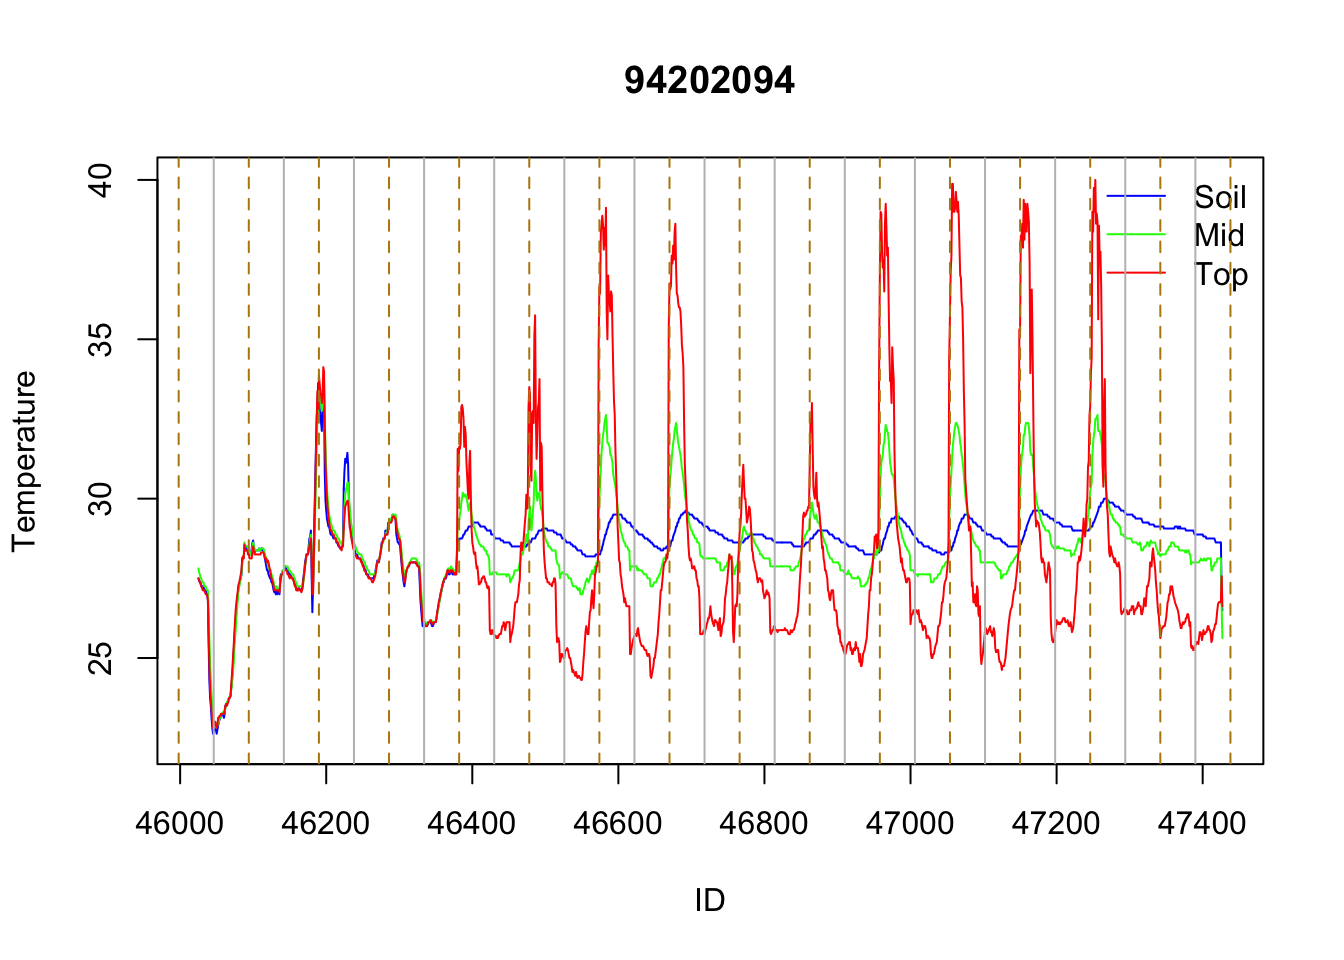
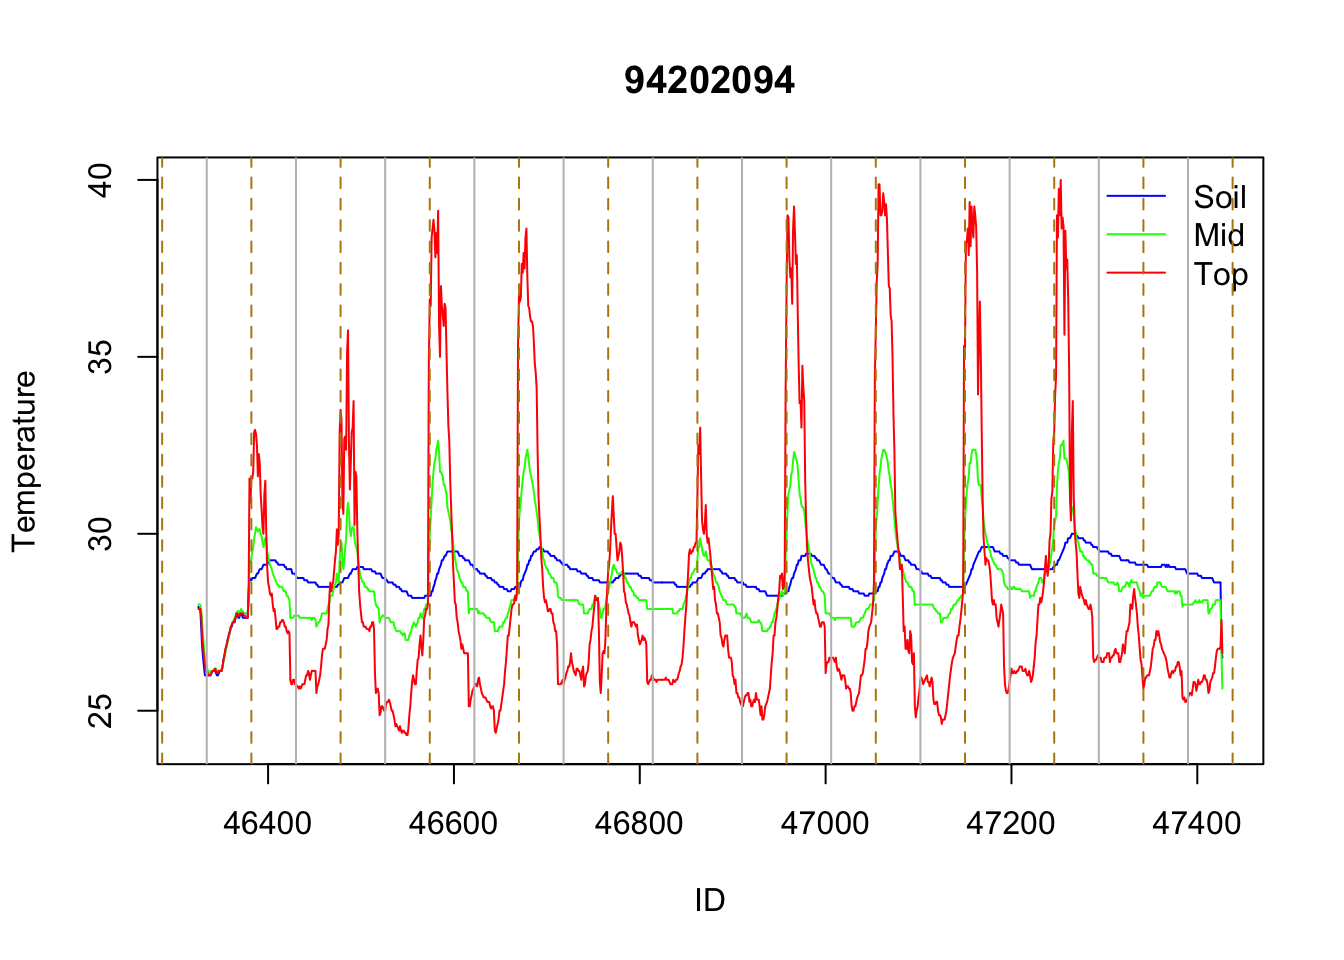
Meeting 20200618

diff --git a/docs/index.html b/docs/index.html
@@ -402,13 +402,13 @@ $(document).ready(function () {
 <h3>94202099 - Bushes</h3>
 <p><img src="index_files/figure-html/unnamed-chunk-2-8.png" width="672" /></p>
 </div>
-<div id="air" class="section level3">
-<h3>94202091 - Air</h3>
+<div id="air-not-buried" class="section level3">
+<h3>94202091 - Air-not buried</h3>
 <p><img src="index_files/figure-html/unnamed-chunk-2-9.png" width="672" /></p>
 <!-- ## Measurements between dataloggers {.tabset} -->
 <!-- ### Soil temperature -->
 <!-- ```{r,echo=FALSE} -->
-<!-- plot(datum[condi,c("ID","Temp1")],col=NA,xlim=c(46025,47700),ylab="Soil temperature") -->
+<!-- plot(datum[condi,c("ID","Temp1")],col=NA,xlim=c(46325,47500),ylab="Soil temperature") -->
 <!-- for(i in 1:length(unique(datum$Sensor))) with(datum[condi & datum$Sensor==unique(datum$Sensor)[i],],lines(ID,Temp1,type="l",col=rainbow(n=9)[i])) -->
 <!-- abline(v=62+0:1000*96,col="grey",lty=1) -->
 <!-- abline(v=14+0:1000*96,col="darkgoldenrod",lty=2) -->
@@ -416,7 +416,7 @@ $(document).ready(function () {
 <!-- ``` -->
 <!-- ### Middle temperature  -->
 <!-- ```{r,echo=FALSE} -->
-<!-- plot(datum[condi,c("ID","Temp2")],col=NA,xlim=c(46025,47700),ylab="Mid temperature") -->
+<!-- plot(datum[condi,c("ID","Temp2")],col=NA,xlim=c(46325,47500),ylab="Mid temperature") -->
 <!-- for(i in 1:length(unique(datum$Sensor))) with(datum[condi & datum$Sensor==unique(datum$Sensor)[i],],lines(ID,Temp2,type="l",col=rainbow(n=9)[i])) -->
 <!-- abline(v=62+0:1000*96,col="grey",lty=1) -->
 <!-- abline(v=14+0:1000*96,col="darkgoldenrod",lty=2) -->
@@ -424,7 +424,7 @@ $(document).ready(function () {
 <!-- ``` -->
 <!-- ### Top temperature -->
 <!-- ```{r,echo=FALSE} -->
-<!-- plot(datum[condi,c("ID","Temp3")],col=NA,xlim=c(46025,47700),ylab="Top temperature") -->
+<!-- plot(datum[condi,c("ID","Temp3")],col=NA,xlim=c(46325,47500),ylab="Top temperature") -->
 <!-- for(i in 1:length(unique(datum$Sensor))) with(datum[condi & datum$Sensor==unique(datum$Sensor)[i],],lines(ID,Temp3,type="l",col=rainbow(n=9)[i])) -->
 <!-- abline(v=42+0:1000*96,col="grey",lty=1) -->
 <!-- abline(v=-6+0:1000*96,col="darkgoldenrod",lty=2) -->
@@ -477,62 +477,78 @@ $(document).ready(function () {
 <h3>Bushes</h3>
 <p><img src="index_files/figure-html/unnamed-chunk-11-1.png" width="672" /></p>
 </div>
+<div id="air-not-buried-1" class="section level3">
+<h3>Air-not buried</h3>
+<p><img src="index_files/figure-html/unnamed-chunk-12-1.png" width="672" /></p>
+</div>
 </div>
 <div id="middle-temperature-between-dataloggers-in-the-same-treatment" class="section level2 tabset">
 <h2 class="tabset">Middle temperature between dataloggers in the same treatment</h2>
 <div id="grass-3" class="section level3">
 <h3>Grass</h3>
-<p><img src="index_files/figure-html/unnamed-chunk-13-1.png" width="672" /></p>
+<p><img src="index_files/figure-html/unnamed-chunk-14-1.png" width="672" /></p>
 </div>
 <div id="wall-3" class="section level3">
 <h3>Wall</h3>
-<p><img src="index_files/figure-html/unnamed-chunk-14-1.png" width="672" /></p>
+<p><img src="index_files/figure-html/unnamed-chunk-15-1.png" width="672" /></p>
 </div>
 <div id="palm-3" class="section level3">
 <h3>Palm</h3>
-<p><img src="index_files/figure-html/unnamed-chunk-15-1.png" width="672" /></p>
+<p><img src="index_files/figure-html/unnamed-chunk-16-1.png" width="672" /></p>
 </div>
 <div id="bushes-3" class="section level3">
 <h3>Bushes</h3>
-<p><img src="index_files/figure-html/unnamed-chunk-16-1.png" width="672" /></p>
+<p><img src="index_files/figure-html/unnamed-chunk-17-1.png" width="672" /></p>
+</div>
+<div id="air-not-buried-2" class="section level3">
+<h3>Air-not buried</h3>
+<p><img src="index_files/figure-html/unnamed-chunk-18-1.png" width="672" /></p>
 </div>
 </div>
 <div id="top-temperature-between-pairs-in-the-same-treatment" class="section level2 tabset">
 <h2 class="tabset">Top temperature between pairs in the same treatment</h2>
 <div id="grass-4" class="section level3">
 <h3>Grass</h3>
-<p><img src="index_files/figure-html/unnamed-chunk-18-1.png" width="672" /></p>
+<p><img src="index_files/figure-html/unnamed-chunk-20-1.png" width="672" /></p>
 </div>
 <div id="wall-4" class="section level3">
 <h3>Wall</h3>
-<p><img src="index_files/figure-html/unnamed-chunk-19-1.png" width="672" /></p>
+<p><img src="index_files/figure-html/unnamed-chunk-21-1.png" width="672" /></p>
 </div>
 <div id="palm-4" class="section level3">
 <h3>Palm</h3>
-<p><img src="index_files/figure-html/unnamed-chunk-20-1.png" width="672" /></p>
+<p><img src="index_files/figure-html/unnamed-chunk-22-1.png" width="672" /></p>
 </div>
 <div id="bushes-4" class="section level3">
 <h3>Bushes</h3>
-<p><img src="index_files/figure-html/unnamed-chunk-21-1.png" width="672" /></p>
+<p><img src="index_files/figure-html/unnamed-chunk-23-1.png" width="672" /></p>
+</div>
+<div id="air-not-buried-3" class="section level3">
+<h3>Air-not buried</h3>
+<p><img src="index_files/figure-html/unnamed-chunk-24-1.png" width="672" /></p>
 </div>
 </div>
 <div id="soil-moisture-between-dataloggers-in-the-same-treatment" class="section level2 tabset">
 <h2 class="tabset">Soil moisture between dataloggers in the same treatment</h2>
 <div id="grass-5" class="section level3">
 <h3>Grass</h3>
-<p><img src="index_files/figure-html/unnamed-chunk-23-1.png" width="672" /></p>
+<p><img src="index_files/figure-html/unnamed-chunk-26-1.png" width="672" /></p>
 </div>
 <div id="wall-5" class="section level3">
 <h3>Wall</h3>
-<p><img src="index_files/figure-html/unnamed-chunk-24-1.png" width="672" /></p>
+<p><img src="index_files/figure-html/unnamed-chunk-27-1.png" width="672" /></p>
 </div>
 <div id="palm-5" class="section level3">
 <h3>Palm</h3>
-<p><img src="index_files/figure-html/unnamed-chunk-25-1.png" width="672" /></p>
+<p><img src="index_files/figure-html/unnamed-chunk-28-1.png" width="672" /></p>
 </div>
 <div id="bushes-5" class="section level3">
 <h3>Bushes</h3>
-<p><img src="index_files/figure-html/unnamed-chunk-26-1.png" width="672" /></p>
+<p><img src="index_files/figure-html/unnamed-chunk-29-1.png" width="672" /></p>
+</div>
+<div id="air-not-buried-4" class="section level3">
+<h3>Air-not buried</h3>
+<p><img src="index_files/figure-html/unnamed-chunk-30-1.png" width="672" /></p>
 <!-- # Temperature and soil moisture time variation -->
 <!-- ## Mean month temperature and soil moisture {.tabset} -->
 <!-- ```{r,include=FALSE} -->
